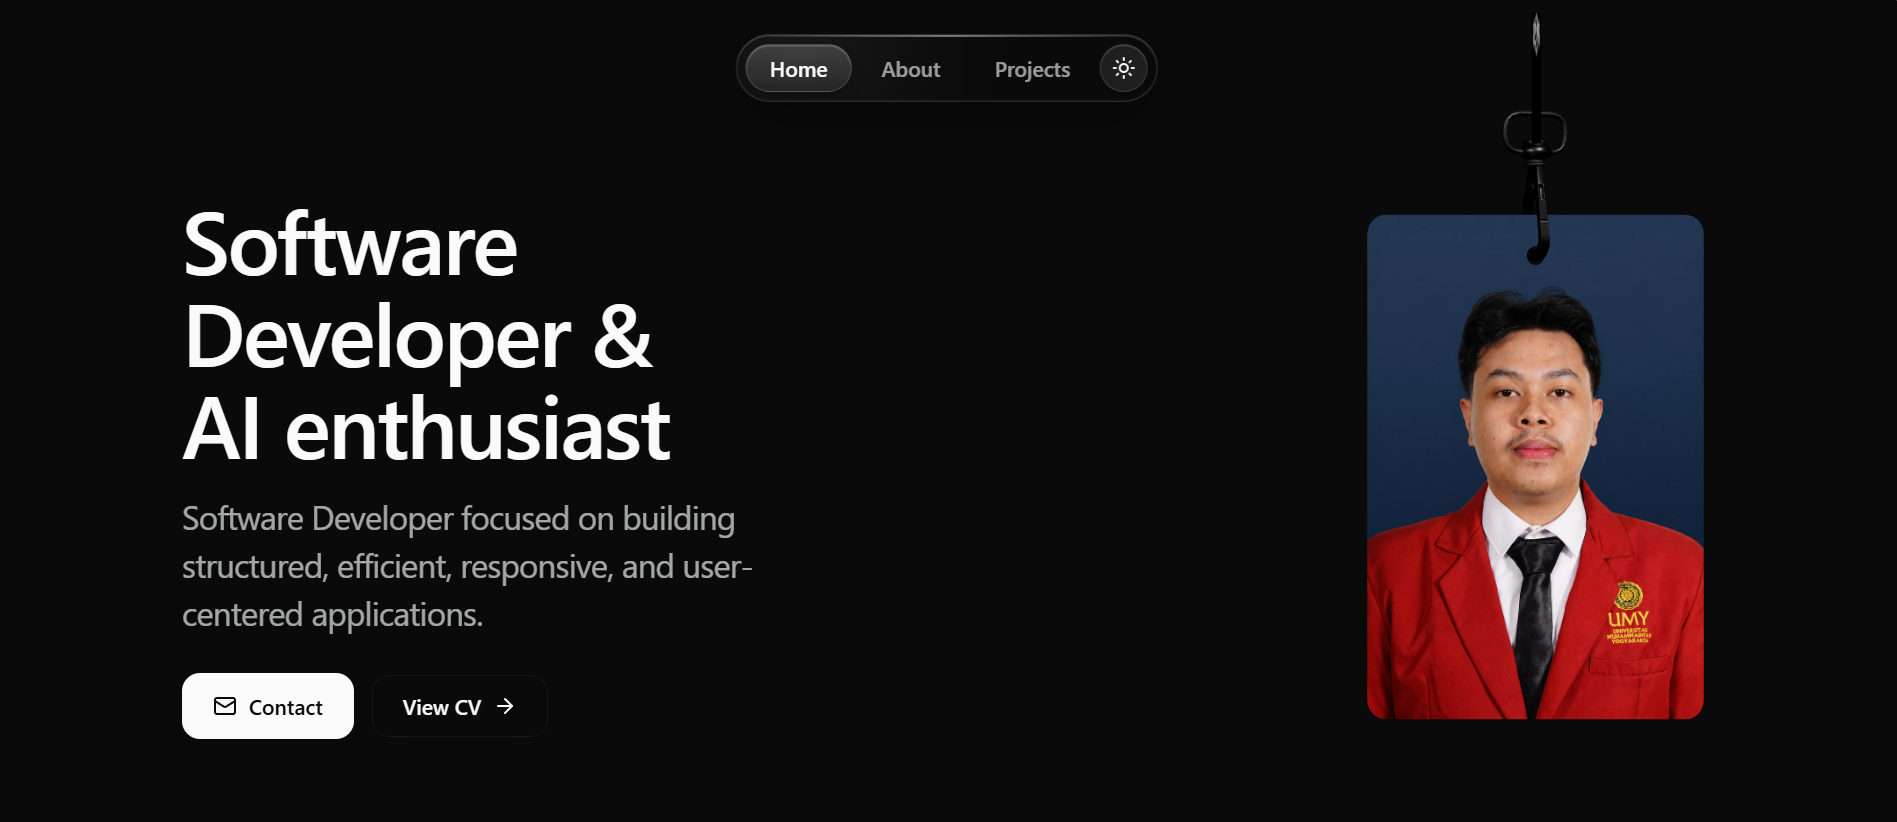
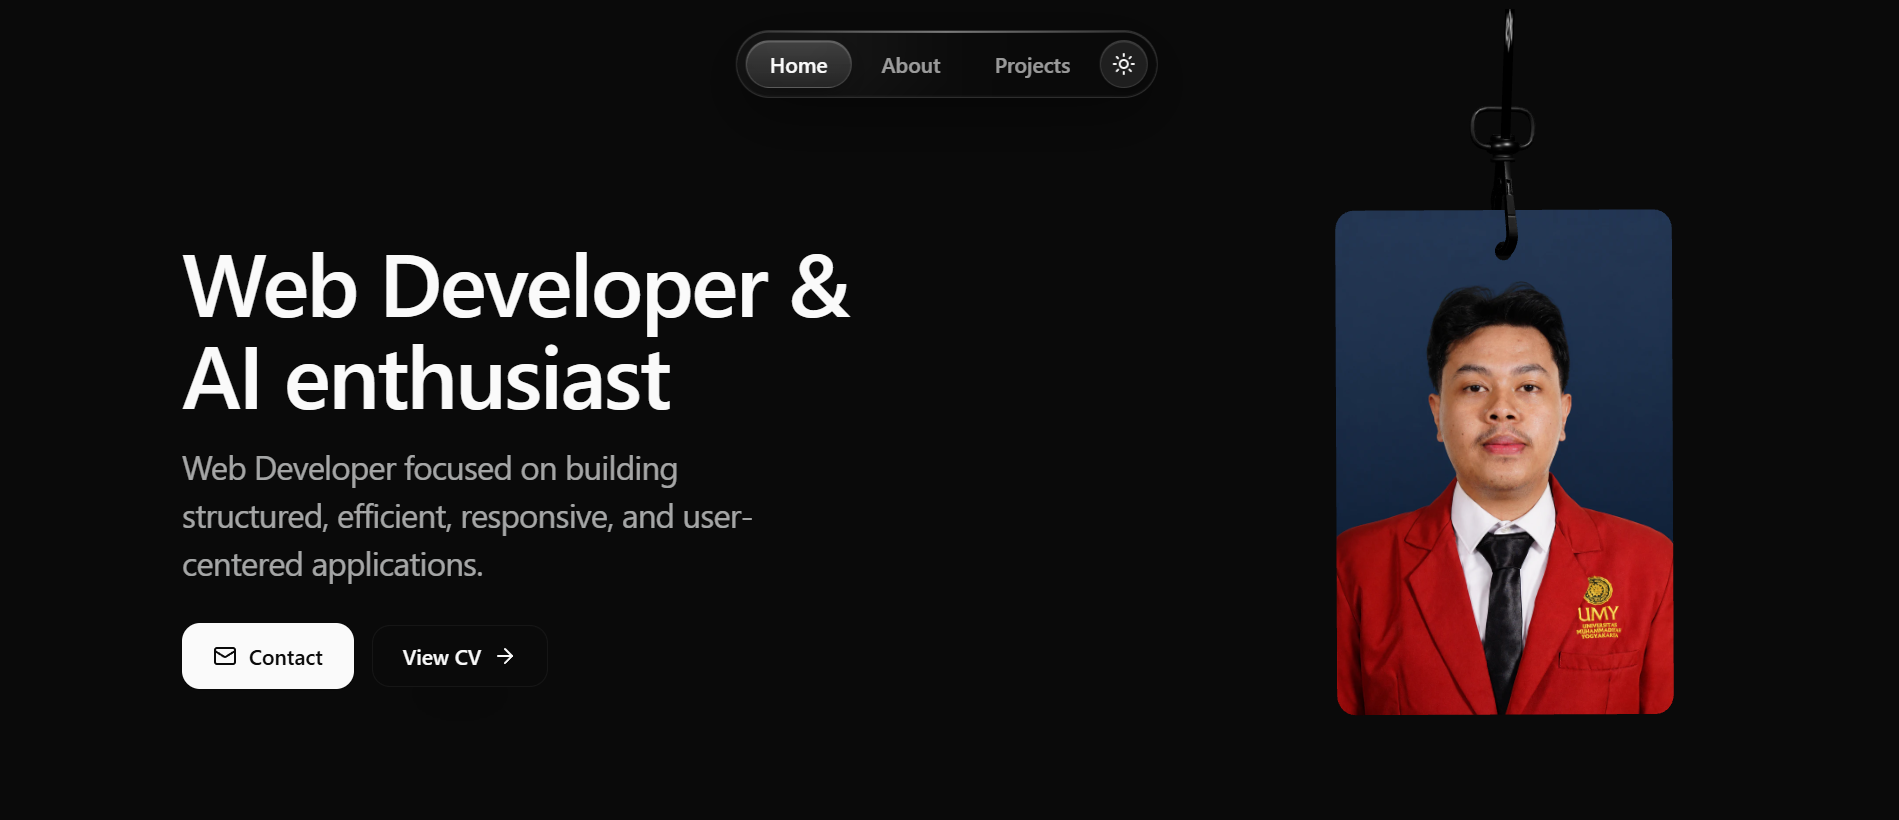
feat: update references from Software Developer to Web Developer in metadata and components

diff --git a/lib/metadata.ts b/lib/metadata.ts
@@ -3,7 +3,7 @@ import type { Metadata } from "next";
 export const siteConfig = {
   name: "Muhamad Hilal Fakhri",
   description:
-    "Portfolio of Muhamad Hilal Fakhri, a Software Developer & AI enthusiast focused on building structured, efficient, responsive, and user-centered applications.",
+    "Portfolio of Muhamad Hilal Fakhri, a Web Developer & AI enthusiast focused on building structured, efficient, responsive, and user-centered applications.",
   url: "https://www.muhamadhilalf.my.id",
   creator: "Muhamad Hilal Fakhri",
   authors: [
@@ -30,7 +30,7 @@ const socialImageAlt = `${siteConfig.name} portfolio homepage preview`;
 export const baseMetadata: Metadata = {
   metadataBase: new URL(siteConfig.url),
   title: {
-    default: `${siteConfig.name} | Software Developer`,
+    default: `${siteConfig.name} | Web Developer`,
     template: `%s | ${siteConfig.name}`,
   },
   description: siteConfig.description,
@@ -56,7 +56,7 @@ export const baseMetadata: Metadata = {
     type: "website",
     locale: "en_US",
     url: siteConfig.url,
-    title: `${siteConfig.name} | Software Developer`,
+    title: `${siteConfig.name} | Web Developer`,
     description: siteConfig.description,
     siteName: siteConfig.name,
     images: [
@@ -71,7 +71,7 @@ export const baseMetadata: Metadata = {
   },
   twitter: {
     card: "summary_large_image",
-    title: `${siteConfig.name} | Software Developer`,
+    title: `${siteConfig.name} | Web Developer`,
     description: siteConfig.description,
     creator: siteConfig.creator,
     images: [

diff --git a/components/hero/hero.tsx b/components/hero/hero.tsx
@@ -53,7 +53,7 @@ export function Hero(): ReactNode {
             <h1 className="text-foreground text-[clamp(2.15rem,11vw,2.75rem)] leading-[1.05] font-medium tracking-tight md:text-[2.5rem] lg:text-[3.65rem]">
               <span className="block">
                 <BlurReveal delay={0} enabled={splashFinished}>
-                  Software&nbsp;
+                  Web&nbsp;
                 </BlurReveal>
                 <BlurReveal delay={0.1} enabled={splashFinished}>
                   Developer&nbsp;
@@ -71,7 +71,7 @@ export function Hero(): ReactNode {
 
             <p className="text-foreground/65 max-w-[34ch] text-[18px] leading-[1.45] tracking-tight sm:text-[20px] lg:text-[22px]">
               <BlurReveal delay={0.4} enabled={splashFinished}>
-                Software Developer focused on building structured, efficient,
+                Web Developer focused on building structured, efficient,
                 responsive, and user-centered applications.
               </BlurReveal>
             </p>
